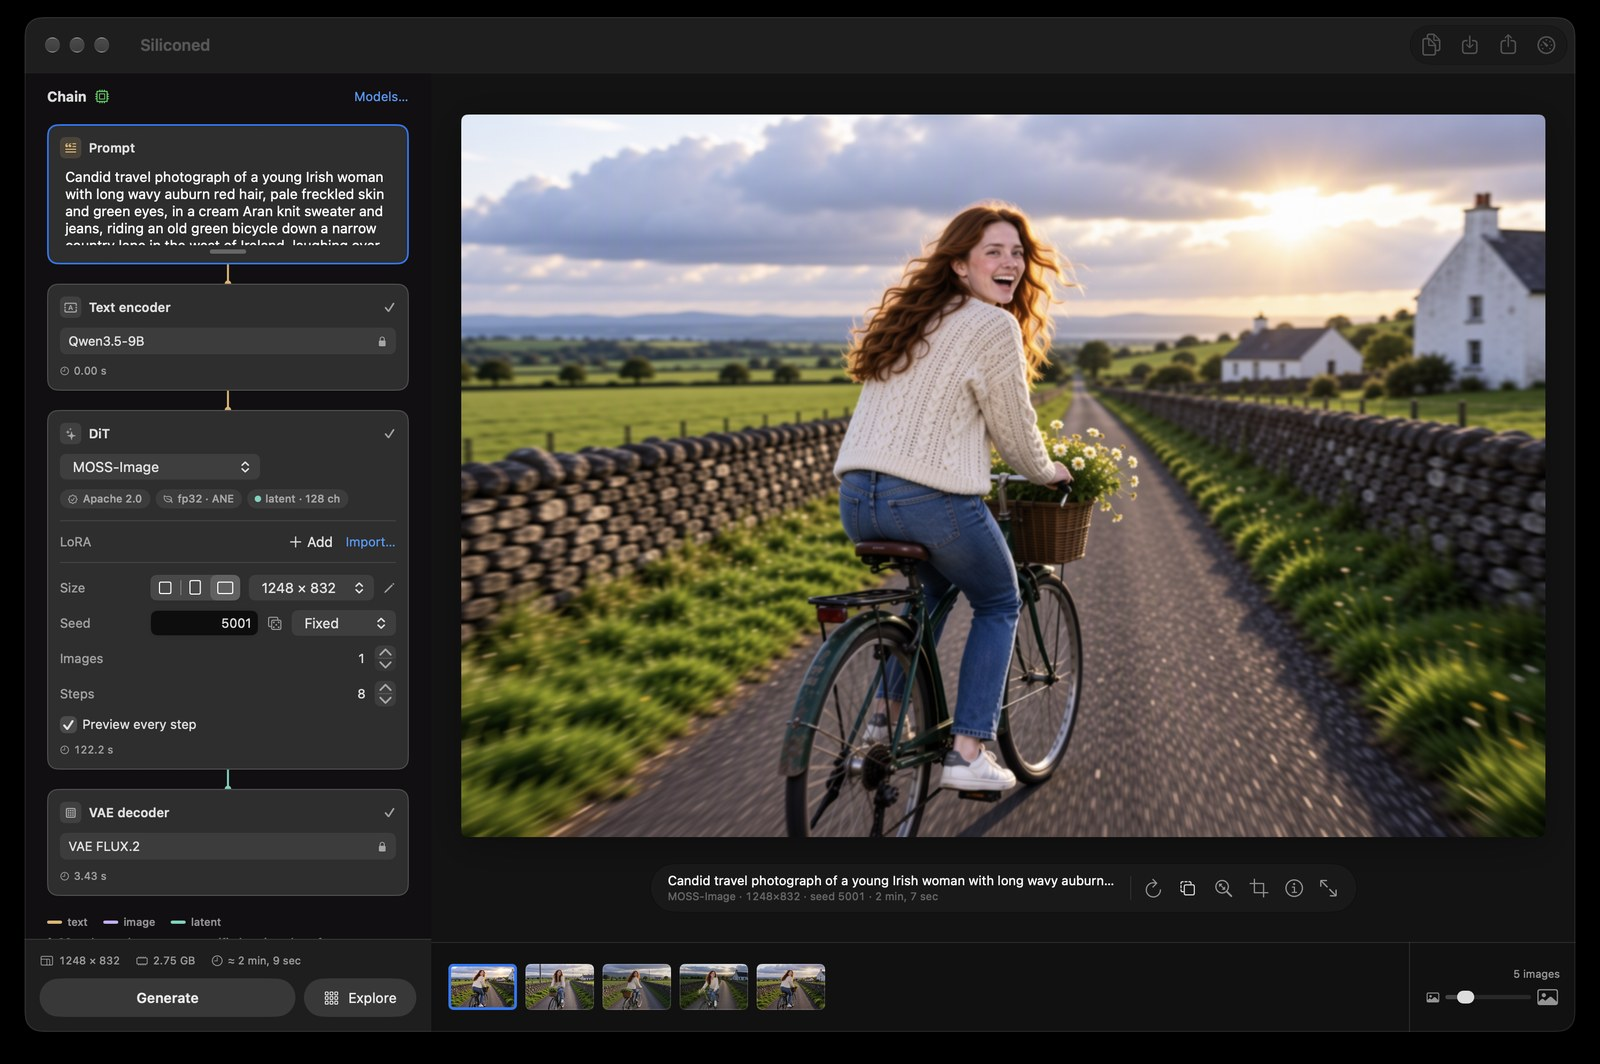
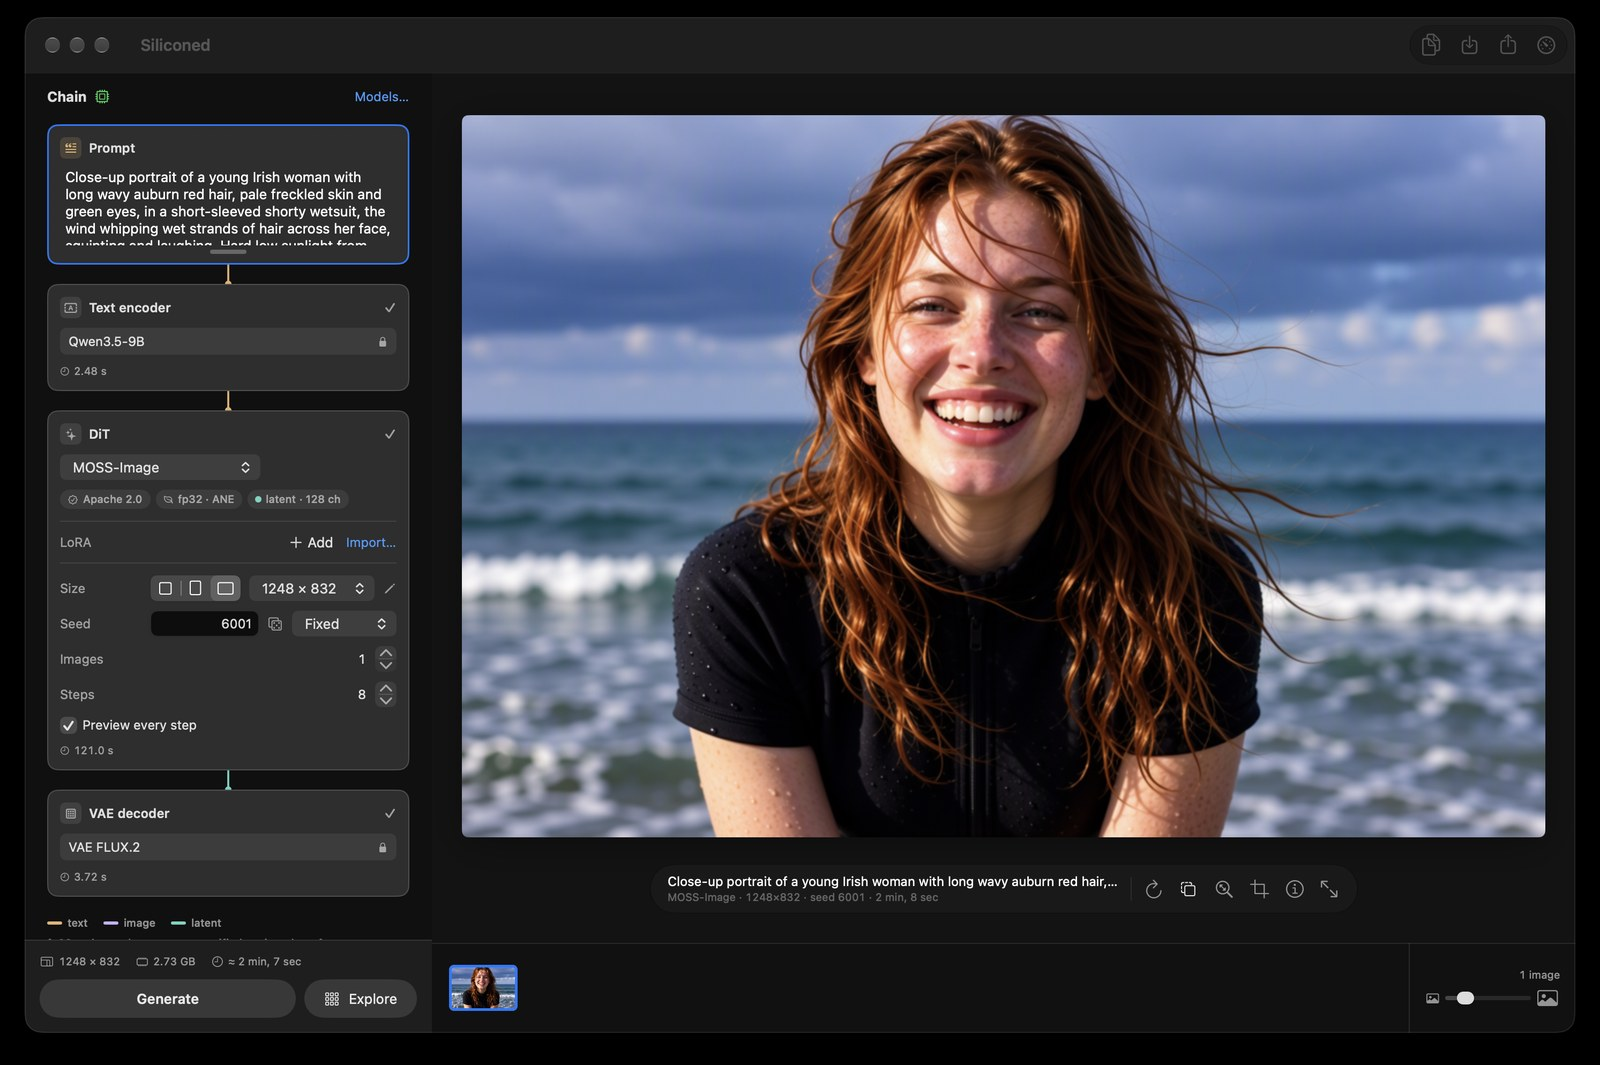
Docs and site: a new MOSS-Image showcase render, a close-up portrait

diff --git a/site/index.html b/site/index.html
@@ -275,8 +275,8 @@
       </ul>
     </div>
     <figure class="shot reveal">
-      <img src="images/moss.jpg" width="1600" height="1064" alt="The Siliconed window with MOSS-Image in the rack: a 1248×832 photo of a young Irish woman with long wavy auburn hair and freckles, in a cream Aran sweater and jeans, riding an old green bicycle down a country lane between dry-stone walls, laughing over her shoulder, wildflowers in the basket, a whitewashed cottage and late-afternoon sun breaking through the clouds" loading="lazy">
-      <figcaption>MOSS-Image, Compact, 1248×832, 8 steps, seed 5001, 127 s on an M1 Pro: &ldquo;Candid travel photograph of a young Irish woman with long wavy auburn red hair, pale freckled skin and green eyes, in a cream Aran knit sweater and jeans, riding an old green bicycle down a narrow country lane in the west of Ireland, laughing over her shoulder, wildflowers in the front basket. Dry-stone walls, emerald fields, a whitewashed cottage, low dramatic clouds breaking with a shaft of late-afternoon sunlight. Shot on 35mm film, slight motion blur on the wheels, warm grain, natural colors.&rdquo;</figcaption>
+      <img src="images/moss.jpg" width="1600" height="1065" alt="The Siliconed window with MOSS-Image in the rack: a 1248×832 close-up portrait of a young Irish woman with long wavy auburn hair and freckles, in a shorty wetsuit, laughing, wet strands of hair blown across her face, raindrops on her skin, the Atlantic breaking behind her under a cloudy sky" loading="lazy">
+      <figcaption>MOSS-Image, Compact, 1248×832, 8 steps, seed 6001, 128 s on an M1 Pro: &ldquo;Close-up portrait of a young Irish woman with long wavy auburn red hair, pale freckled skin and green eyes, in a short-sleeved shorty wetsuit, the wind whipping wet strands of hair across her face, squinting and laughing. Hard low sunlight from the side just after a rain shower, dark storm clouds over the Atlantic behind her, raindrops on her skin, shot on Portra 400, shallow depth of field.&rdquo;</figcaption>
     </figure>
   </div>
 </section>

diff --git a/docs/APP.fr.md b/docs/APP.fr.md
@@ -86,9 +86,9 @@ Krea 2 Turbo ne télécharge rien de [krea/Krea-2-Turbo](https://huggingface.co/
 
 [MOSS-Image](https://huggingface.co/OpenMOSS-Team/MOSS-Image-SFT), de l'équipe OpenMOSS, est le cinquième modèle, arrivé dans la 0.16 : un DiT mono-flux de 5,1 milliards de paramètres qui lit le prompt avec Qwen3.5-9B — un modèle de langage hybride, trois couches sur quatre en attention linéaire (Gated DeltaNet) — et décode avec le VAE de FLUX.2. Son éditeur n'a pas publié de version rapide ; la communauté, si : Siliconed fait tourner MOSS-Image-SFT sous la [LoRA DMD de lodestones](https://huggingface.co/lodestones/MOSS-Image-SFT-8-steps-dmd) à force 1, 8 évaluations, sans CFG, la LoRA gardée à côté des poids en fp32 (fusionnée dans les poids bf16, ses petits deltas se perdraient dans l'arrondi). Les deux sont vérifiés contre la référence, LoRA comprise ([VERIFY.fr.md](VERIFY.fr.md)). Texte vers image, et vos LoRA par-dessus celle des 8 pas — le `qkv` fusionné de ComfyUI et d'ai-toolkit est séparé exactement, et les LoRA entraînées sur MOSS-Image Base s'appliquent aussi, comme la communauté s'en sert ; ni Détail, ni édition. Le [rendu plus rapide](ENGINE.fr.md#rendu-plus-rapide) n'y prend qu'une évaluation en demi-taille : dès la deuxième, MOSS-Image perd du détail fin (la peau, les dos de livres) là où les autres modèles le gardent. Il est marqué **bêta** dans l'app, parce que sa recette en 8 pas est celle de la communauté, pas celle de l'éditeur ; il sort de bêta quand OpenMOSS publie sa propre version rapide. Il s'installe en Standard ou en Compact (tailles : [La gestion des modèles](#la-gestion-des-modèles)), sous Apache 2.0, LoRA comprise.
 
-![La fenêtre avec MOSS-Image dans le rack : une photo en 1248×832 d'une jeune Irlandaise aux longs cheveux auburn ondulés et aux taches de rousseur, en pull irlandais crème et jean, sur un vieux vélo vert dans un chemin de campagne entre des murets de pierre sèche, qui rit par-dessus l'épaule, des fleurs des champs dans le panier, une maison blanchie à la chaux et le soleil de fin d'après-midi qui perce les nuages](images/moss.jpg)
+![La fenêtre avec MOSS-Image dans le rack : un portrait serré en 1248×832 d'une jeune Irlandaise aux longs cheveux auburn ondulés et aux taches de rousseur, en combinaison shorty, qui rit, des mèches mouillées soufflées sur le visage, des gouttes de pluie sur la peau, l'Atlantique qui déferle derrière elle sous un ciel nuageux](images/moss.jpg)
 
-*MOSS-Image, Compacte, 1248×832, 8 pas, graine 5001, 127 s sur un M1 Pro de 16 Go : « Candid travel photograph of a young Irish woman with long wavy auburn red hair, pale freckled skin and green eyes, in a cream Aran knit sweater and jeans, riding an old green bicycle down a narrow country lane in the west of Ireland, laughing over her shoulder, wildflowers in the front basket. Dry-stone walls, emerald fields, a whitewashed cottage, low dramatic clouds breaking with a shaft of late-afternoon sunlight. Shot on 35mm film, slight motion blur on the wheels, warm grain, natural colors. »*
+*MOSS-Image, Compacte, 1248×832, 8 pas, graine 6001, 128 s sur un M1 Pro de 16 Go : « Close-up portrait of a young Irish woman with long wavy auburn red hair, pale freckled skin and green eyes, in a short-sleeved shorty wetsuit, the wind whipping wet strands of hair across her face, squinting and laughing. Hard low sunlight from the side just after a rain shower, dark storm clouds over the Atlantic behind her, raindrops on her skin, shot on Portra 400, shallow depth of field. »*
 
 La Standard prend le DiT, l'encodeur de texte Qwen3.5-9B (son modèle de langage seul, sans la tour de vision), le VAE et le tokenizer d'[OpenMOSS-Team/MOSS-Image-SFT](https://huggingface.co/OpenMOSS-Team/MOSS-Image-SFT), et la LoRA de [lodestones/MOSS-Image-SFT-8-steps-dmd](https://huggingface.co/lodestones/MOSS-Image-SFT-8-steps-dmd). Sa Compact prend le DiT et l'encodeur de texte en int8 convrot de [Comfy-Org/MOSS-Image](https://huggingface.co/Comfy-Org/MOSS-Image), avec la même LoRA, le même VAE et le même tokenizer. Pas encore de Légère : un DiT en 4 bits est publié, mais pas encore vérifié ; sur un Mac de 8 Go, la Compact est présélectionnée, et son pic reste dans le budget de ce Mac.
 

diff --git a/docs/APP.md b/docs/APP.md
@@ -86,9 +86,9 @@ Krea 2 Turbo downloads nothing from [krea/Krea-2-Turbo](https://huggingface.co/k
 
 [MOSS-Image](https://huggingface.co/OpenMOSS-Team/MOSS-Image-SFT), by the OpenMOSS team, is the fifth model, added in 0.16: a single-stream DiT of 5.1 billion parameters that reads the prompt with Qwen3.5-9B — a hybrid language model, three layers in four of linear attention (Gated DeltaNet) — and decodes with FLUX.2's VAE. Its publisher released no fast version; the community did: Siliconed runs MOSS-Image-SFT under [lodestones' DMD LoRA](https://huggingface.co/lodestones/MOSS-Image-SFT-8-steps-dmd) at strength 1, 8 evaluations, no CFG, the LoRA kept beside the weights in fp32 (merged into the bf16 weights, its small deltas would be lost to rounding). Both are checked against the reference, the LoRA included ([VERIFY.md](VERIFY.md)). Text to image, and your LoRAs on top of the 8-step one — ComfyUI's and ai-toolkit's fused `qkv` is split exactly, and LoRAs trained on MOSS-Image Base apply too, as the community uses them; no Detail, no edit. [Faster Rendering](ENGINE.md#faster-rendering) takes a single half-size evaluation: from the second, MOSS-Image loses fine detail (skin, book spines) where the other models keep it. It is marked **beta** in the app, because its 8-step recipe is the community's, not the publisher's; it leaves beta when OpenMOSS releases its own fast version. It installs as Standard or Compact (sizes: [Model management](#model-management)), under Apache 2.0, the LoRA included.
 
-![The window with MOSS-Image in the rack: a 1248×832 photo of a young Irish woman with long wavy auburn hair and freckles, in a cream Aran sweater and jeans, riding an old green bicycle down a country lane between dry-stone walls, laughing over her shoulder, wildflowers in the basket, a whitewashed cottage and late-afternoon sun breaking through the clouds](images/moss.jpg)
+![The window with MOSS-Image in the rack: a 1248×832 close-up portrait of a young Irish woman with long wavy auburn hair and freckles, in a shorty wetsuit, laughing, wet strands of hair blown across her face, raindrops on her skin, the Atlantic breaking behind her under a cloudy sky](images/moss.jpg)
 
-*MOSS-Image, Compact, 1248×832, 8 steps, seed 5001, 127 s on an M1 Pro with 16 GB: “Candid travel photograph of a young Irish woman with long wavy auburn red hair, pale freckled skin and green eyes, in a cream Aran knit sweater and jeans, riding an old green bicycle down a narrow country lane in the west of Ireland, laughing over her shoulder, wildflowers in the front basket. Dry-stone walls, emerald fields, a whitewashed cottage, low dramatic clouds breaking with a shaft of late-afternoon sunlight. Shot on 35mm film, slight motion blur on the wheels, warm grain, natural colors.”*
+*MOSS-Image, Compact, 1248×832, 8 steps, seed 6001, 128 s on an M1 Pro with 16 GB: “Close-up portrait of a young Irish woman with long wavy auburn red hair, pale freckled skin and green eyes, in a short-sleeved shorty wetsuit, the wind whipping wet strands of hair across her face, squinting and laughing. Hard low sunlight from the side just after a rain shower, dark storm clouds over the Atlantic behind her, raindrops on her skin, shot on Portra 400, shallow depth of field.”*
 
 The Standard takes the DiT, the Qwen3.5-9B text encoder (its language model alone, the vision tower left out), the VAE and the tokenizer from [OpenMOSS-Team/MOSS-Image-SFT](https://huggingface.co/OpenMOSS-Team/MOSS-Image-SFT), and the LoRA from [lodestones/MOSS-Image-SFT-8-steps-dmd](https://huggingface.co/lodestones/MOSS-Image-SFT-8-steps-dmd). Its Compact takes the DiT and the text encoder in int8 convrot from [Comfy-Org/MOSS-Image](https://huggingface.co/Comfy-Org/MOSS-Image), with the same LoRA, VAE and tokenizer. No Light yet: a 4-bit DiT is published but not yet checked; on a Mac with 8 GB the Compact is preselected, and its peak stays within that Mac's budget.
 
